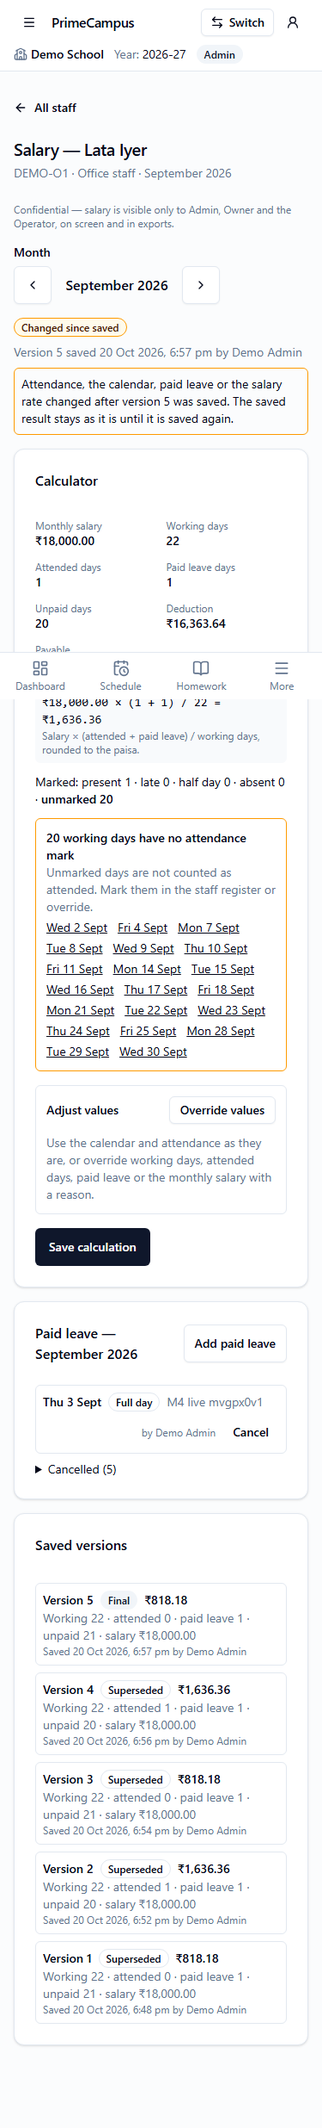
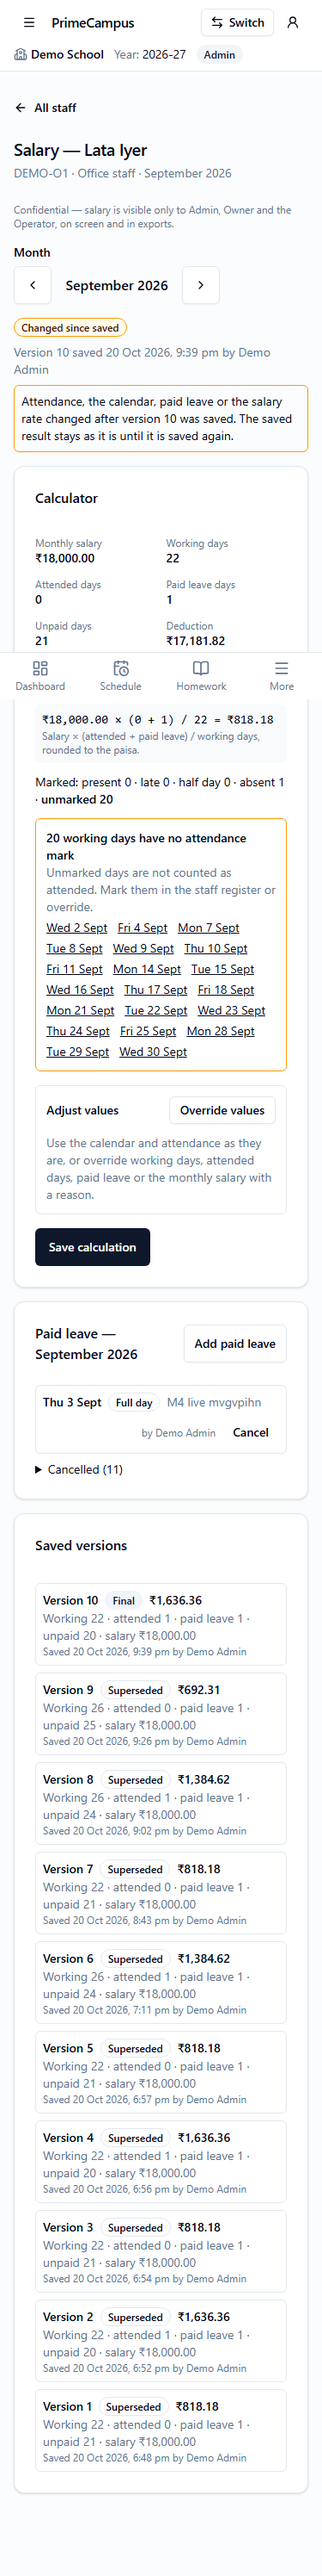
M4 report and screenshots from the last live run
docs/reports/M4.md: what was built, done-when evidence, live steps, full-suite runs (5 and 6 back to
back 102/102), RPCs, open findings (get_salary_month statement timeout; 'changed' vs replay),
not verified, Demo data, files touched.

diff --git a/docs/reports/M4.md b/docs/reports/M4.md
@@ -6,4 +6,245 @@ No backend changes by this module. Migration **2410** (`m4_plan_additions`, writ
 plan review) is committed on the branch (`687b09e`). Types regenerated from the live project (Supabase MCP generator;
 only the 2400/2410 functions changed) → `npm run gen:rpc` → **148 wrappers** (135 school, 13 context-free). Not merged.
 
-<!-- RESULTS -->
+## Summary
+
+- **Salary** (`src/features/salary/`, `staff_finance.read`; replaces the "Salary — coming" item)
+  - **Month view** `/salary?month=&group=` (default: previous month): one row per staff member employed in the month,
+    status chip in words (Not calculated · Saved vN · **Changed since saved** · Needs manual resolution), saved payable
+    and — managers only — "Payable now", days (saved snapshot, else the live numbers), unmarked count, "Partial month".
+    Totals from the server. Phones get cards. **CSV** of saved results only (a live preview is never exported).
+  - **Calculator** `/salary/:staffId?month=`: the server's numbers (salary, working, attended, paid leave, unpaid,
+    deduction, payable) and the **formula with real values** ("₹40,000.00 × (15 + 1) / 20 = ₹32,000.00"), marked days
+    (2410 `marked_days`: present / late / half day / absent + unmarked), unmarked dates and discrepancies in plain words,
+    each linking to the staff register for that date. **Overrides** (working / attended / paid leave in 0.5 steps,
+    salary in rupees → paise by string math) are validated like the server, need a reason, are **previewed** with
+    `preview_salary`, and Save sends exactly the previewed values; the server's field errors show under the field.
+    "Needs manual resolution" is explained and blocks Save until the required override is given.
+    Save: "Saved as version N" / **"Already saved — no new version"** (replay). A saved version's overrides refill the
+    form, so an unchanged re-save replays.
+  - **Paid leave**: add (full / half day, optional reason, the server's `note` shown), cancel (with confirmation;
+    CONFLICT = already cancelled), cancelled ones collapsed. **Saved versions** with Final / Superseded, who and when.
+  - Readers (Owner): the saved result, status and history; no calculator, no buttons, no `preview_salary` calls.
+- **Reports**
+  - **Attendance register** `/attendance/register?section=&month=`: desktop grid students × dates — day-wise
+    P / L / H / A, **blank = not marked** (tinted, "Not marked" for screen readers; never "A"), period-wise
+    "attended/held" with `*` when some lessons are unmarked, "—" when the student wasn't in the section, non-working
+    days greyed with their label, per-student totals with **Provisional / Final**. **Phones**: one card per student
+    with the month summary; tapping opens the per-day list. CSV (words, never blanks). Class teachers open it from
+    Today ("Month register"); the server answers FORBIDDEN for anyone else and that is shown.
+  - **Attendance changes** `/attendance/changes`: Students / Staff tabs (capability-driven), old → new in words,
+    actor and role, time; section filter; click a name to see only that person; keyset Load more.
+  - **Academic coverage** `/reports/coverage` (`academic.read_all`, new nav item): ≤ 63 days, sort, "only rows that
+    need attention", Unassigned rows kept, diary x / y, homework due fully checked / with no checks, period attendance
+    marked (labelled "at least one mark"), totals = sum of rows shown, CSV.
+  - **Fee-head totals** `/fees/reports/heads` (a tab in the fee area): per head gross / concession / adjustments /
+    net, adjustments without a head, charged / paid / balance, the server's note, a reconciliation line, CSV.
+- **Lessons on a date (TIME-02)**: "Change time" in the lesson actions (version sent; overlap refusals shown as sent;
+  a past lesson may change — owner decision); **"Add extra lesson"** on the schedule (section, date, times, subject of
+  the class, optional teacher / label / reason). DUPLICATE → "Already added" + **Open it**; an uncertain failure
+  re-sends the same request (DUPLICATE then means the first attempt worked). Badges **Extra lesson** / **Changed for
+  this date** from 2410 `source` on the schedule and on Today. "Teacher absent, not covered" filter (`?uncovered=1`,
+  2410 `actual_teacher_absent`).
+- **Dashboards** (`get_dashboard`, one call): the page renders exactly the blocks the server returns — Admin all,
+  Principal attendance / staff / academic (+ Academic coverage and Register shortcuts), Accountant fees (+ Collect,
+  Day book, Dues, Cheques), Owner attendance / fees / salary. Teacher keeps Today, parents the child home. Every number
+  links to the page that counts it the same way (table below). Setup issues link to the page that fixes them,
+  grouped with a count when there are many. Loading / error / offline never show 0.
+- **Operator console** (`/operator/activity|sign-ins|usage|maintenance`, Operator accounts — the server checks the
+  live grant): activity log (school / username / action prefix / record / IST dates; actor name + username + role,
+  via-Operator, expandable redacted detail), sign-ins & sessions (failed sign-ins without an account say so; "last
+  seen is not a sign-out time"), usage (labelled estimates), maintenance (retention, "Daily at 02:30 IST", runs,
+  **Run now** with confirmation). "Operator console" in the navigation; the "Coming soon" list is now empty.
+- **Expired sessions**: an app session the server ended (e.g. the daily job after 30 idle days) makes
+  `bootstrap_account` answer UNAUTHENTICATED; the app now signs out of Auth locally with "Your session has ended.
+  Please sign in again." (unit test; previously it signed out with no message).
+
+## "Done when" checklist
+
+| Item | Status | How it was verified |
+|---|---|---|
+| `typecheck`, `lint`, `test`, `build`, `check:bundle` | ✅ | Node v22.19.0, final commit. `test`: **25 files / 457 passed** (398 before + 59 for M4). `lint` = ESLint + `prettier --check`. |
+| Bundle budget | ✅ | `check:bundle`: initial JS **239.2 KB gzip** (budget 300 KB; 235.8 KB before M4). Every M4 page is a lazy route. |
+| No `.from(` · no storage · `npm audit` 0 | ✅ | `grep -rn "\.from(" src tests` (ignoring `Array.from`/`Buffer.from`): 0. `grep -rn "localStorage\|sessionStorage\|indexedDB" src`: 0. `npm audit`: found 0 vulnerabilities. Live network audit (`m4.spec` test 8): only `/rest/v1/rpc/*`, `/auth/v1/*`, `functions/v1/accounts`; `p_ctx_rev` on every school RPC; the 18 main M4 RPCs were all exercised. |
+| Unit: salary formula display, override validation, replay message, status chips | ✅ | `m4-logic` › "salary formula display (AC-26)", "salary override validation", "salary days"; `m4-pages` › "salary calculator (manager)" (formula + marked days + unmarked links + discrepancies; Save → "Saved as version 1", again → "Already saved — no new version"; overrides validated under the field, need a reason, previewed then saved; server field error under the field; manual resolution; lost reply = "Not confirmed"), "salary month view (manager)" (all four chips), "salary for readers (Owner)". |
+| Unit: register cells (unmarked ≠ absent, period attended/held, provisional) | ✅ | `m4-logic` › "register cells" (+ CSV); `m4-pages` › "attendance register" (state per cell, `2/3*`, Provisional / Final, legend, phone cards; FORBIDDEN for another teacher). |
+| Unit: changes list paging | ✅ | `m4-pages` › "attendance changes" (50 rows → Load more sends `p_before_id` = `next_cursor`; old → new in words; actor + role). |
+| Unit: coverage table, fee-head totals | ✅ | `m4-logic` › "academic coverage", "fee-head totals"; `m4-pages` › "academic coverage" (Unassigned row, totals = sum), "fee-head totals" (net per head, totals, the server's note). |
+| Unit: change-time / extra-lesson dialogs (overlap + DUPLICATE) | ✅ | `m4-pages` › "change time" (version + times sent; the overlap refusal shown; end before start refused before sending), "extra lesson" (DUPLICATE → "Already added" + Open it → `/lessons/77`); `m4-logic` › argument builders, `extraLessonDuplicateId`. |
+| Unit: dashboard blocks per capability (Admin, Principal, Accountant, Owner, Teacher) | ✅ | `m4-pages` › "dashboards per capability" (exact block lists; links with the same rules; earlier-year dues; Teacher → Today without `get_dashboard`; offline is an error, never ₹0); `m4-logic` › dashboard links, setup-issue grouping. |
+| Unit: operator pages (no access for non-operators) | ✅ | `m4-pages` › "operator console" (non-operator: no access and **no `op_*` call**; activity log actor / via-Operator / detail; maintenance schedule + Run now); `m4-logic` › IST filters, navigation. Expired session: `session.test` › "app session ended by the server". |
+| Playwright live 1–7, Demo School only | ✅ | `tests/e2e/m4.spec.ts` (8 tests): **8 / 8** in M4 run 6 and in full runs 1, 2, 3, 5 and 6 (run 4: the salary timeout, finding 0). Details next. |
+| Full live suite passes twice in a row | ✅ | Full runs **5 and 6: 102 / 102 each, back to back** (12.6 and 12.2 min). Runs 1, 3, 4 failed — see "Full live suite". |
+| 375px screenshots | ✅ | `docs/reports/m4-screens/`: `375-salary-month.png`, `375-salary-calculator.png`, `375-register.png` (phone layout; a viewport capture because Class 1 A has many imported students), `375-admin-dashboard.png`, `375-operator-log.png`; each asserts no sideways page scroll. Also `desktop-salary-calculator.png`, `desktop-operator-log.png`. |
+| Report: every RPC used, mismatches, not verified | ✅ | Below. |
+
+## Live verification (`tests/e2e/m4.spec.ts`)
+
+Every sign-in asserts "Demo School" before acting. Logins: `demo.admin`, `demo.owner`, `demo.principal`,
+`demo.accountant`, `demo.teacher` (Ravi Kumar, class teacher of Class 1 A), `demo.teachparent` (Meera Rao in her
+Teacher role — not Class 1 A's class teacher), and the Operator. The API helper only resets demo passwords, looks up ids
+and reads numbers for the cross-checks; every action is done in the UI.
+
+| # | Brief item | Evidence |
+|---|---|---|
+| 1 | Salary | Lata Iyer (Office staff, non-teaching), previous month (Sep 2026; her existing marks, mostly unmarked). Admin cancels the previous run's paid leave and adds one on another working day ("Paid leave recorded."); the calculator refreshes; **Save → "Saved as version N"** (N = previous + 1, checked against `get_salary_month`); the formula on screen contains the saved payable. **Save again → "Already saved — no new version (version N is unchanged)"**, version unchanged, chip "Saved vN". Then her mark on the month's first working day is flipped (Present ↔ Absent) in the staff register → the month view shows **"Changed since saved"**. **Owner**: the same row says "Changed since saved" with the saved payable, no "Payable now" column; her page shows the saved result, no Save / Add paid leave. **Teacher**: no Salary in the navigation; `/salary/<id>` → "You don't have access to this page"; `get_salary_month` as the teacher → FORBIDDEN. |
+| 2 | Register, Class 1 A, Oct 2026 | Principal: the 19 Oct cells are period-wise with the server's "attended/held"; the 20 Oct cells are P / L / H / A / unmarked; an unmarked cell is blank with "Not marked"; the legend. Phone (375px): one card per student, the grid hidden, a card opens its per-day list, no sideways scroll. **Class teacher** (`demo.teacher`) sees the grid; **another teacher** (`demo.teachparent`) gets "You don't have access to this" with the server's message and no grid. |
+| 3 | Correction trail | Admin changes an already-marked student on 20 Oct in the day register; Attendance changes (20 Oct, Class 1 A): the first row names that student, "<old> → <new>" in words, and "Changed by Demo Admin (Admin)". |
+| 4 | Lessons on a date | A Class 1 A day ≥ 10 days ahead (clear of the M2 specs' days): the last lesson's **Change time** to the previous lesson's time → "That time overlaps …" (refused); then its end −5 / +5 minutes (alternating per run) → "Time changed to …", badge "Changed for this date"; the API shows the new end and `source = override`. **Extra lesson** on 19 Oct (period-wise), English, Ravi Kumar, 30 minutes after the last lesson: the first run that reached this step **added** it (audit: exactly one `timetable.lesson.extra_added`); every later run met **"Already added" + Open it** (the link opens that lesson). "Extra lesson" badge on the schedule and on Ravi's Today for 19 Oct; **Ravi marks its attendance** (period roster; one row alternates Present / Late) → "Saved."; the API roster has the marks. |
+| 5 | Coverage and fee heads = their pages | Principal: Coverage 19–20 Oct, Class 1 A, row English · Ravi Kumar → "x / y" diary written; the Diary page with the same range, section and teacher lists exactly y English lessons by Ravi, x of them "Written". Accountant: Fee-head totals (current year) **Balance = the Dues page's total balance**; the server's note is shown. |
+| 6 | Dashboards | **Admin**: blocks exactly attendance, staff, academic, admissions, fees, salary (+ setup issues); each cross-checked by following its link: sections complete = overview rows "(complete)"; staff absent = Absent marks in the staff register; lessons without a diary = rows on the Diary page (missing only, all pages loaded); follow-ups overdue = "Overdue" items on Admissions; dues = Dues total balance; salary saved = salary month "Saved". **Principal**: attendance, staff, academic; lessons with an absent teacher = lesson cards in the "not covered" day view. **Accountant**: fees only; collected today = the Day book's "Received". **Owner**: attendance, fees, salary; saved payable = the salary month's total. Admin dashboard at 375px. |
+| 7 | Operator | Activity log filtered to Demo School, `demo.admin`, `salary.calculation`, today → `salary.calculation.saved` by "Demo Admin (demo.admin) · Admin · Demo School"; its detail shows Lata Iyer's staff id. Sign-ins & sessions and Usage load. Maintenance: **Run now** (confirmed) → "Done: …", and the newest run is "Run by an Operator". |
+| 8 | 375px + network | See the checklist. |
+
+### M4 spec runs
+
+| Run | Result | Cause / fix |
+|---|---|---|
+| 1 | 1 failed, 7 not run | **App bug**: right after adding paid leave, Save was enabled while the calculator still showed the old numbers (₹0.00 on screen; ₹818.18 was saved). Save is now disabled while the calculation refreshes. |
+| 2 | 1 failed, 7 not run | Spec: moving the paid leave between two unmarked days keeps the totals, so Save correctly replayed. The spec now flips a mark first when the totals equal the saved version. This run also showed finding 1 below. |
+| 3 | 4 passed, 1 failed | Spec: the coverage cell "2 / 3" + screen-reader "(1 missing)" was parsed as 31. Regex fixed. |
+| 4, 5 | 6 passed, 1 failed | Spec selectors: "To" also matched "Operator console"; "Show" also matched "Show details". Exact names. |
+| **6** | **8 / 8** | Screenshots reviewed: the Admin dashboard listed ~100 setup-issue lines (Demo School's imported sections) → grouped by kind with a count. The phone register became a viewport capture. |
+
+## Full live suite
+
+All specs in `tests/e2e` (M0 6 + M1 12 + M1b 8 + M2-layout 3 + M2 9 + M2X 36 + M3 12 + M3-review 8 + M4 8 = **102
+tests**), serial, live backend, Demo School only.
+
+| Run | Result | Duration | Cause |
+|---|---|---|---|
+| 1 | 100 passed, 1 failed, 1 not run | 11.2 min | `m0.spec` test 5 (stale revision): since M4 the operator home is the real dashboard; its own `get_dashboard` query met the forced stale revision first and the recovery cancelled the probe (CANCELLED instead of STALE_CONTEXT). The app recovered correctly. **Test fixed** (forced on the operator console page, which has no school queries); `m0.spec` then 6 / 6. |
+| 2 | **102 passed** | 11.5 min | |
+| 3 | 94 passed, 1 failed, 7 not run | 18.8 min | `m2x-m2` M2-3: the homework was saved (row present, right lesson, 20:52 IST) but never appeared in the lesson page's list — the same **unexplained** intermittent failure M2X and M3 recorded (13 homework that day, so not paging; Ravi is class teacher, so `can_check` is not it). Not changed (outside M4). |
+| 4 | 94 passed, 1 failed, 7 not run | 10.7 min | `m4.spec` step 1: `get_salary_month` hit the 8 s statement timeout (finding 0). Not hidden with a retry. |
+| **5** | **102 passed** | **12.6 min** | |
+| **6** (right after 5) | **102 passed** | **12.2 min** | |
+
+The M0–M3 screenshots rewritten by the suite were restored to their committed versions after each run.
+
+## Dashboard numbers and the pages that count them the same way
+
+| Block · number | Link | Shared rule |
+|---|---|---|
+| Attendance · sections complete / not started / marked / present | `/attendance?date=` | the same `get_attendance_overview` (the dashboard is built from it) |
+| Staff · absent / half day / marked | `/staff-attendance?date=` | the staff marks of that date |
+| Staff · lessons with an absent teacher | `/schedule?date=&uncovered=1` | scheduled lessons whose actual teacher is marked absent (2410 `actual_teacher_absent`) |
+| Academic · lessons on the day | `/schedule?date=` | scheduled lessons |
+| Academic · lessons without a diary (7 days before) | `/diary?from=d−7&to=d−1&missing=1` | `list_diary_entries` only-missing |
+| Academic · homework due, nothing checked | `/homework?due_unchecked=1&from=&to=` | `list_homework(p_due_unchecked)` (2410) from the server's `homework_due_unchecked_from` |
+| Admissions · overdue / today / open | `/admissions` | `get_followups_due` buckets |
+| Fees · collected on the date | `/fees/day-book?from=d&to=d` | `list_collections` totals ("Received") |
+| Fees · dues / overdue (current year) | `/fees/dues` · `?overdue=1` | current-year balances (2410); earlier years shown separately when > 0 |
+| Fees · pending cheques · open exceptions | `/fees/cheques` · `/fees/exceptions` | status pending / open |
+| Salary · saved / saved payable (previous month) | `/salary?month=` | final versions of that month |
+| Setup issues | the page that fixes each (years, classes, the section's timetable, teaching assignments, attendance mode) | — |
+
+## RPCs used by M4
+
+All through the generated wrappers; every response is validated by `src/contracts/{salary,reports,dashboard,operator,
+timetable}.ts` (registered in `RPC_RESULT_SCHEMAS`).
+
+| Area | RPCs | Live |
+|---|---|---|
+| Salary | `get_salary_month`, `preview_salary`, `save_salary_calculation` (new + replay), `get_salary_calculations`, `list_paid_leave`, `record_paid_leave`, `cancel_paid_leave` | yes (overrides / manual resolution: **unit only**) |
+| Reports | `get_attendance_register`, `list_attendance_changes`, `get_academic_coverage`, `get_fee_head_report` | yes (changes staff tab and Load more: **unit only**) |
+| Lessons | `update_lesson_session('change_time')`, `add_extra_lesson`, `get_date_schedule` / `get_schedule_range` / `get_teacher_today` (2410 `source`), `list_homework(p_due_unchecked)` | yes |
+| Dashboard | `get_dashboard` | yes, all four roles |
+| Operator | `op_get_audit_events`, `op_get_auth_events`, `op_get_usage`, `op_get_maintenance`, `op_run_retention_cleanup`, `op_list_schools`, `op_find_account` | yes |
+| Reused | `get_setup_snapshot`, `list_class_subjects`, `list_staff`, `list_staff_groups`, `get_fee_setup`, `get_staff_attendance`, `mark_staff_attendance`, `mark_student_attendance`, `get_marking_roster`, `list_diary_entries`, `get_dues_report`, `list_collections`, `get_followups_due`, `get_attendance_overview`, `bootstrap_account` | yes |
+
+## Brief ↔ database mismatches and observations (no backend changes made)
+
+Items 1–6 of the plan review were resolved by migration 2410. Still open:
+
+0. **`get_salary_month` can exceed the 8 s statement timeout** (`authenticated` role: `statement_timeout=8s`). Full
+   run 4 failed on it (HTTP 500 "canceling statement due to statement timeout", from the spec's API read; the page
+   calls the same RPC). Measured (read-only `EXPLAIN ANALYZE`): one `compute_salary` pass over Demo School's 47 staff
+   for a month = **1.31 s** (~28 ms per staff member: a `resolve_day` + two lookups per day). Since 2410,
+   `get_salary_month` computes every row live and again with the saved overrides for saved rows — up to ~2.6 s warm for
+   Demo, more under load, and it grows with staff count. The UI shows "Could not load this" + Try again (never ₹0), and
+   the spec was **not** given a retry (it would hide this). Suggest (backend): resolve the staff calendar once per
+   group and month instead of per staff and day, and skip the second compute when the saved version has no overrides.
+1. **"Changed since saved" can be followed by "Already saved — no new version".** 2410 marks a row `changed` when the
+   unmarked days differ from the saved version, but `save_salary_calculation` replays whenever the numbers are equal
+   (it doesn't compare unmarked days). Seen live: paid leave moved from one unmarked day to another → "Changed since
+   saved" → Save → "Already saved". Correct money-wise, confusing to read. Options: let the replay also compare
+   `unmarked_working_dates` (a new version that records them), or don't count unmarked-only differences as `changed`.
+2. **No idempotency / version on salary and leave saves** (as planned): `save_salary_calculation` relies on the
+   content replay; `record_paid_leave` on the per-day DUPLICATE; `cancel_paid_leave` has no version (CONFLICT = already
+   cancelled, shown as such).
+3. **The register lists dates only up to today**; a day the student wasn't in the section has no cell ("—"). Coverage
+   "period attendance marked" = lessons with at least one mark (labelled).
+4. **Extra lessons take slot numbers 20, 19, …, and cancelled lessons keep theirs**, so a section/date allows ~12 extra
+   lessons in total (then LIMIT_REACHED). The live spec reuses one extra lesson on 19 Oct so it doesn't use them up.
+5. **An Operator whose app session ended gets FORBIDDEN from `op_*`** (`require_operator` checks the session), not
+   UNAUTHENTICATED. A reload goes through `bootstrap_account` first and signs them out cleanly; only an operator page
+   left open through the expiry shows "no access" until reloaded.
+6. **The activity log also holds generic row events** (`salary_calculations.insert` / `.update`, …) beside the named
+   ones (`salary.calculation.saved`); listed as stored. `operator.retention_cleanup` events have no school, so a school
+   filter hides them.
+7. `op_get_usage` sessions: at most 200, no paging, no school per row (labelled on the page).
+
+## Design notes
+
+- **Money and days**: amounts are paise from the server, shown with `MoneyText` ("—" / "Not saved" / "Can't
+  calculate" when missing, never ₹0); typed rupees → paise with `parseRupeesToPaise`; days parsed from the text in 0.5
+  steps and shown with `formatDays`; the deduction is integer paise. The formula is built from the server's numbers —
+  the client never computes a salary.
+- **Save = what is on screen**: overrides are previewed first; Save is disabled while the form differs from the
+  preview, while the preview refreshes, or when it can't be calculated.
+- **Confidential**: salary queries have their own `salary-*` keys in the memory-only, context-scoped cache; the Owner
+  never calls `preview_salary`; the CSV has saved results only; salary nav and routes need `staff_finance.read`.
+- **Shared helpers**: `src/lib/csv.ts` (`toCsv`, `downloadCsv`; the fee CSV uses it now), `parseMonthParam` /
+  `monthParam` in `src/lib/dates.ts`, `MonthPicker` (previous / next month in words, same on every browser).
+- **Refresh**: student / staff marks, lesson changes, diary, homework checks and money mutations also invalidate the
+  register, change trail, coverage, salary, fee-head report and dashboard.
+- **Operator console gating**: by the account's Operator flag (the server's own rule); `audit.read` exists only inside
+  a school context.
+- **Setup issues**: grouped per kind with a count; "Show sections" lists each with its own link.
+
+## Not verified
+
+- Salary overrides, a "needs manual resolution" month and a server field error **against the live server**
+  (unit-tested; no Demo staff member lacks a salary rate, and the live spec saves without overrides).
+- Attendance changes staff tab and its Load more, and the CSV downloads (register, salary, coverage, fee heads) live —
+  built and unit-tested.
+- A real 30-day idle expiry (the server's answer to an ended session is unit-tested; Run now ended whatever idle
+  sessions existed).
+- The daily pg_cron job firing at 02:30 IST (the page shows it scheduled; only Operator runs were observed).
+- Screen readers (needs a person); a keyboard-only walkthrough of the M4 screens.
+- Why `m2x-m2` M2-3 / `m2.spec` homework sometimes doesn't list a saved homework (pre-existing, intermittent, seen again in full run 3).
+
+## Demo School data created by this module
+
+Per M4 run: Lata Iyer — one Sep 2026 paid leave cancelled and another added; a new Sep 2026 salary version (plus a
+replay); her mark on the month's first working day flipped Present ↔ Absent (twice in some runs). Class 1 A: one future
+lesson's end time alternates −5 / +5 minutes (`source = override`); **one extra English lesson on 19 Oct** (Ravi
+Kumar) with its period attendance (one row alternates Present / Late); one 20 Oct day-register mark changed
+(alternates). Maintenance runs recorded by the Operator. The full-suite runs added the usual data of every module's
+specs. The M0–M3 screenshots rewritten by the suite were restored to their committed versions; `m4-screens/` is from
+the last run.
+
+## Changes outside the new feature folders
+
+- `src/app/{router.tsx,navigation.ts,layouts/AppShell.tsx}` (routes, nav items, icons).
+- Contracts: `timetable.ts` (`source`, `actual_teacher_absent`, extra-lesson result), `rpc-results.ts`,
+  `query-keys.ts` (operator keys); generated `database.types.ts` + `rpc/functions.ts`.
+- Schedule: `LessonActions` (Change time), `LessonCard` (badges, not covered), `ScheduleViews`, `SchedulePage`,
+  `hooks`; Teacher Today (badges, Month register link on every attendance mode).
+- URL filters for the dashboard links: Diary, Homework (+ "due in this range, nothing checked yet" switch), Day book,
+  Dues. Attendance overview tabs.
+- Invalidations in the attendance, staff-attendance, timetable, diary, homework and fees hooks.
+- `src/lib/{dates.ts,csv.ts (new),session/session.ts}`; `src/features/fees/{parts.tsx (tab),reports/csv.ts}`.
+- Tests: `tests/unit/m4-{fixtures,logic}.ts`, `m4-pages.test.tsx`, `session.test.ts`; `tests/e2e/m4.spec.ts`;
+  `tests/e2e/m0.spec.ts` — two test-only updates: the admin dashboard heading instead of the M4 placeholder text, and
+  the stale-revision check is forced on the operator console (the new dashboard's own query met the stale revision
+  first, and the recovery cancelled the probe: CANCELLED instead of STALE_CONTEXT — full run 1).
+
+**New dependencies:** none. **Backend:** none (2410 is the owner's).
+
+## How to run the live suite
+
+Export `E2E_OPERATOR_USERNAME` / `E2E_OPERATOR_PASSWORD` from `.env.local` **trimmed** (the password line has a
+trailing space and no final newline), then `npx playwright test` (all specs, serial; Demo School only) or
+`npx playwright test tests/e2e/m4.spec.ts`.
